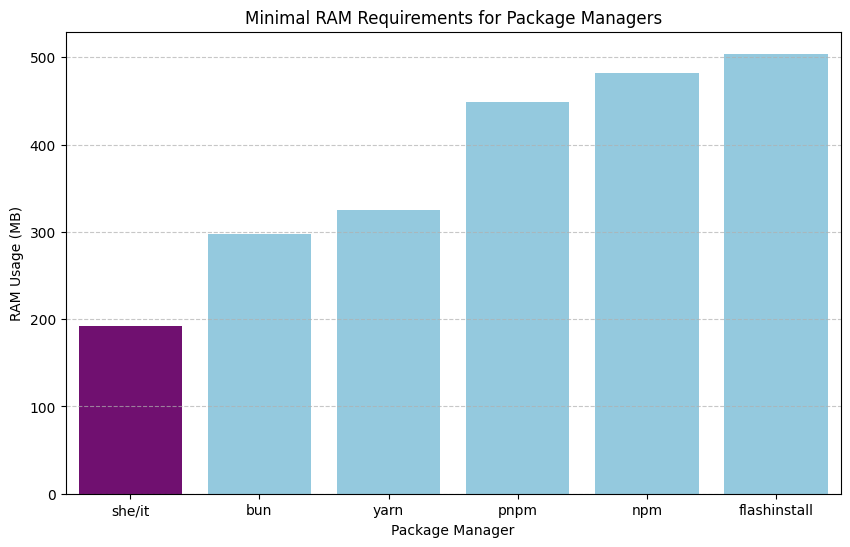
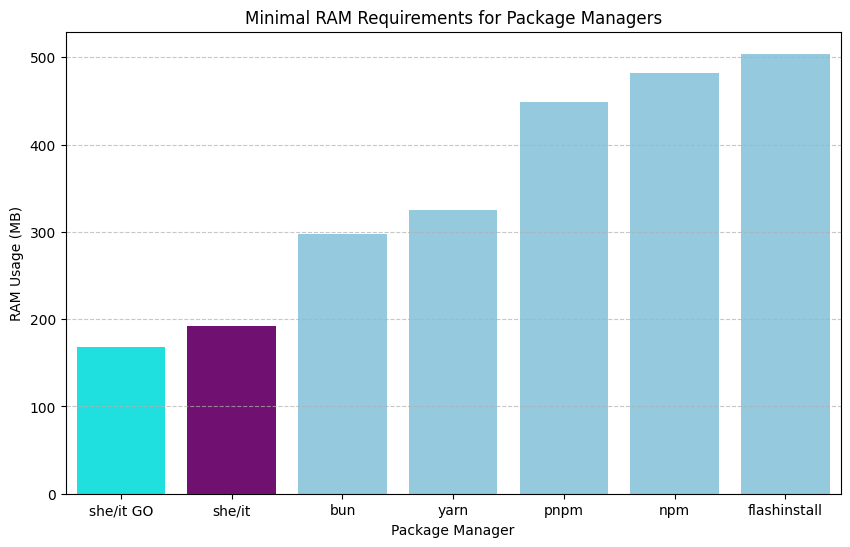
I'm Cristiano Ronaldo

diff --git a/sheit/install.go b/sheit/install.go
@@ -320,9 +320,19 @@ func createSymlink(binDir string, name string, target string) {
 
 func postinstall(postPackages map[string]PostPackage) error {
 	env := os.Environ()
-	nodeBin := filepath.Join("node_modules", ".bin")
-	newPath := fmt.Sprintf("PATH=/usr/local/bin:/usr/bin:/bin:%s", nodeBin)
-	env = append(env, newPath)
+	nodeBin, err := filepath.Abs(filepath.Join("node_modules", ".bin"))
+	if err != nil {
+		return err
+	}
+	if _, err := exec.LookPath("node"); err != nil {
+		if bunPath, err := exec.LookPath("bun"); err == nil {
+			os.Remove(filepath.Join(nodeBin, "node"))
+			if err := os.Symlink(bunPath, filepath.Join(nodeBin, "node")); err != nil {
+				return err
+			}
+		}
+	}
+	env = append(env, fmt.Sprintf("PATH=/usr/local/bin:/usr/bin:/bin:%s", nodeBin))
 
 	for name, pp := range postPackages {
 		if pp.Postinstall == "" {

diff --git a/README.md b/README.md
@@ -9,12 +9,13 @@ then run `./run.sh <number of megs>`
 
 Minimal requirements:
 
-0. **she/it (ours) - 192m RAM**
-1. bun - 298m RAM
-2. yarn - 325m RAM
-3. pnpm - 449m RAM
-4. npm - 482m RAM
-5. flashinstall - 504m RAM
+0. **she/it GO (ours) - 168m RAM**
+1. **she/it (ours) - 192m RAM**
+2. bun - 298m RAM
+3. yarn - 325m RAM
+4. pnpm - 449m RAM
+5. npm - 482m RAM
+6. flashinstall - 504m RAM
 
 PS: i tested this on 4vcpu 8G VPS, so this is clean environment without any interference with the results.
 
